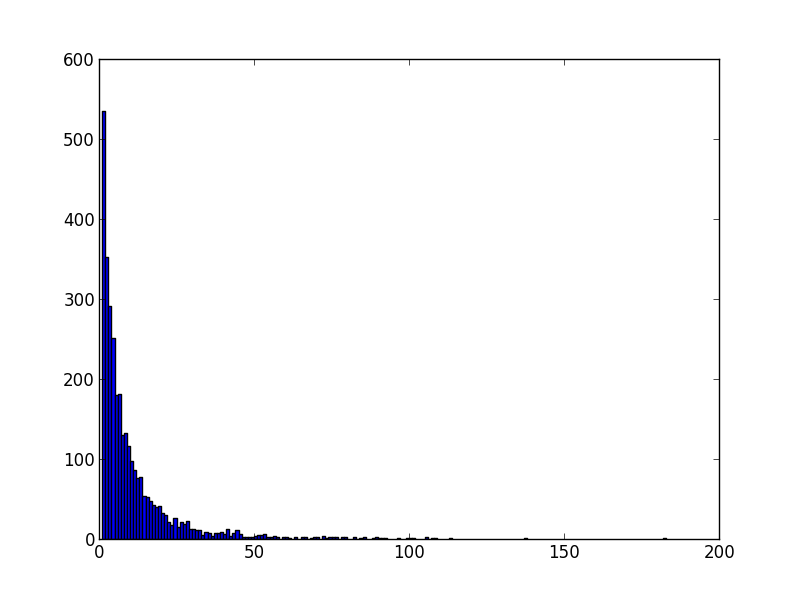
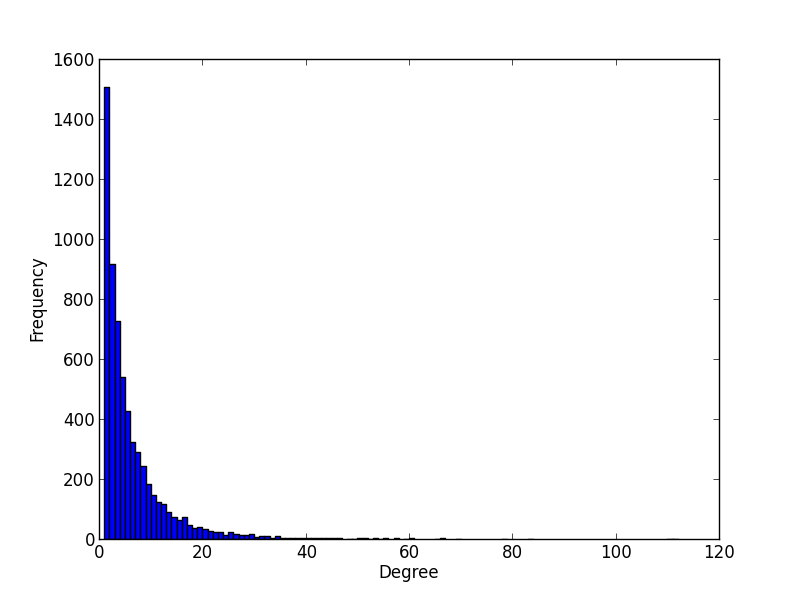
Added stats

diff --git a/get_graph_stats.py b/get_graph_stats.py
@@ -11,23 +11,34 @@ matplotlib.use('Agg')
 import matplotlib.pyplot as plt
 from collections import defaultdict
 
+IS_BIPARTITE = False
 PLOTS_FOLDER = "plots"
 DEGREE_DISTRIBUTION_FILE = "degree_distribution.png"
 REDUNDANCY_DISTRIBUTION_FILE = "redundancy_distribution.png"
 
 def createGraph(convos):
-    graph = nx.Graph()
+    graph1 = nx.Graph()
+    graph2 = nx.Graph()
     for convo in convos:
+        length = convo["lines1"] if convo["lines1"] else 0 + convo["lines2"] if convo["lines2"] else 0
         profile1 = convo["profile1"]
         profile2 = convo["profile2"]
-        if not graph.has_node(profile1):
-            graph.add_node(profile1)
-        if not graph.has_node(profile2):
-            graph.add_node(profile2)
-        graph.add_edge(profile1, profile2)
-    return graph
+        if length > 0:
+            if not graph1.has_node(profile1):
+                graph1.add_node(profile1)
+            if not graph1.has_node(profile2):
+                graph1.add_node(profile2)
+            graph1.add_edge(profile1, profile2)
+        if not graph2.has_node(profile1):
+            graph2.add_node(profile1)
+        if not graph2.has_node(profile2):
+            graph2.add_node(profile2)
+        graph2.add_edge(profile1, profile2)
+    return (graph1, graph2)
 
 def get_node_sets(graph):
+    if not IS_BIPARTITE:
+        return (None, None)
     coloring = nx.bipartite.color(graph)
     X = set()
     Y = set()
@@ -69,6 +80,7 @@ Returns number of nodes in each connected component and its diameter.
 """
 def get_diameters(graph):
     connected_components = nx.connected_component_subgraphs(graph)
+    print "number of connected components: ", len(connected_components)
     diameters = []
     for subgraph in connected_components:
         diameters.append((len(subgraph), nx.diameter(subgraph)))
@@ -76,19 +88,25 @@ def get_diameters(graph):
 
 def get_clustering(graph):
     #print "clustering: ", nx.bipartite.clustering(graph)
-    print "average clustering: ", nx.bipartite.average_clustering(graph)
+    if IS_BIPARTITE:
+        print "average clustering: ", nx.bipartite.average_clustering(graph)
+    else:
+        print "average clustering: ", nx.average_clustering(graph)
 
 def get_density(graph, X):
-    print "density: ", nx.bipartite.density(graph, X)
+    if IS_BIPARTITE:
+        print "density: ", nx.bipartite.density(graph, X)
 
-def get_degree_distribution(graph, X):
-    degrees = nx.bipartite.degrees(graph, X)
-    drawHistogram(degrees[0].values(), DEGREE_DISTRIBUTION_FILE, 1, None, None)
+def get_degree_distribution(graph):
+    degrees = list(graph.degree(graph.nodes()).values())
+    drawHistogram(degrees, DEGREE_DISTRIBUTION_FILE, 1, "Degree", "Frequency")
 
 def get_node_redundancy(graph):
+    if not IS_BIPARTITE:
+        return
     redundancies = nx.bipartite.node_redundancy(graph)
     redundancies = map(lambda x: round(x, 1), redundancies.values())
-    drawHistogram(redundancies, REDUNDANCY_DISTRIBUTION_FILE, 0.1, None, None)
+    drawHistogram(redundancies, REDUNDANCY_DISTRIBUTION_FILE, 0.1, "Node Redundancy", "Frequency")
 
 def render_graph(graph):
     plt.clf()
@@ -97,15 +115,19 @@ def render_graph(graph):
 
 def run():
     edges = importConvosTrain()
-    graph = createGraph(edges)
-    # render_graph(graph)
-    X, Y = get_node_sets(graph)
+    (convo_graph, full_graph) = createGraph(edges)
+    print "full graph edges: ", len(full_graph.edges())
+    print "full graph nodes: ", len(full_graph.nodes()) 
+    print "convo graph edges: ", len(convo_graph.edges())
+    print "convo graph nodes: ", len(convo_graph.nodes())   
+    render_graph(full_graph)
+    X, Y = get_node_sets(convo_graph)
 
-    get_diameters(graph)
-    get_clustering(graph)
-    get_density(graph, X)
-    get_degree_distribution(graph, X)
-    get_node_redundancy(graph)
+    get_diameters(convo_graph)
+    get_clustering(convo_graph)
+    get_density(convo_graph, X)
+    get_degree_distribution(convo_graph)
+    get_node_redundancy(convo_graph)
 
 if __name__ == "__main__":
     run()
